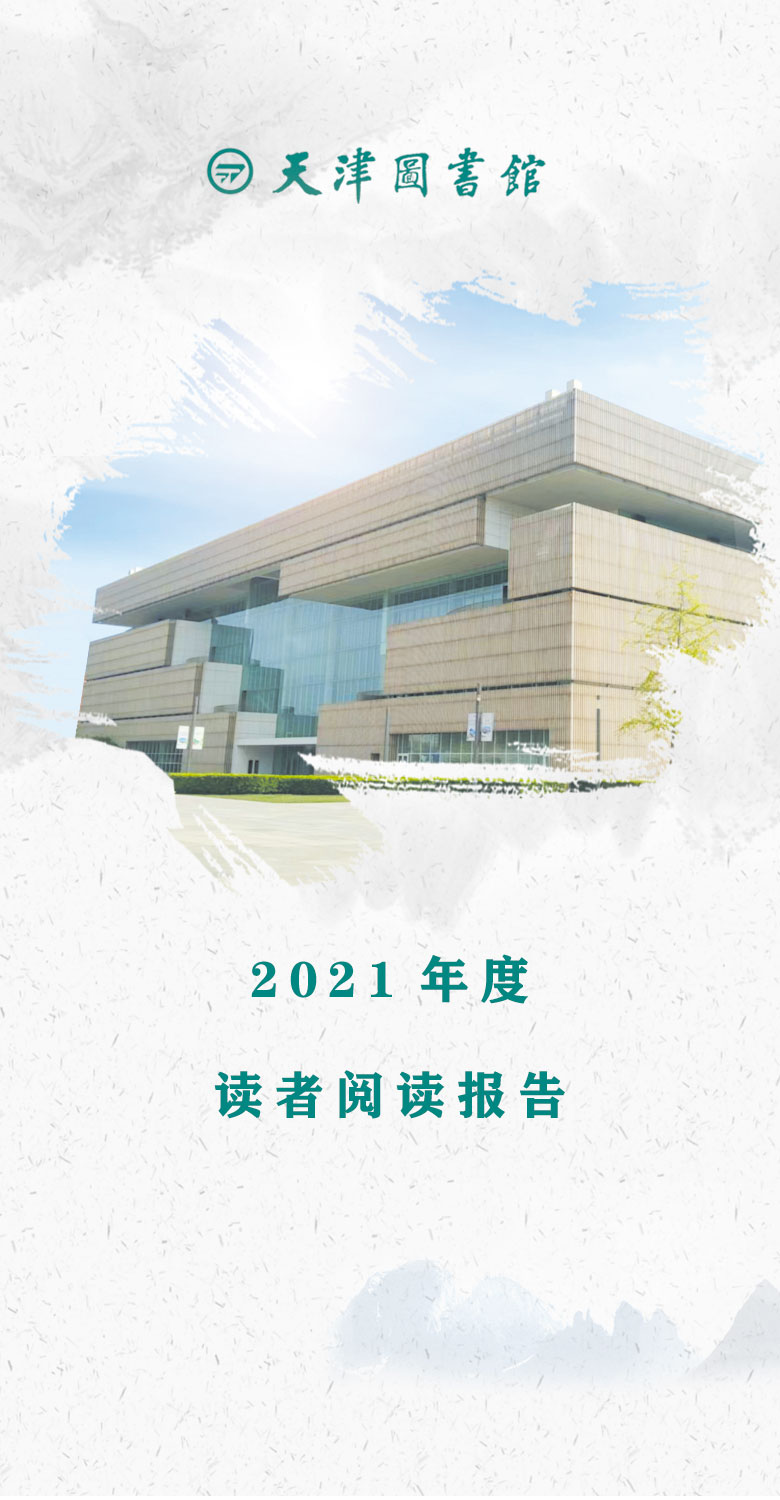
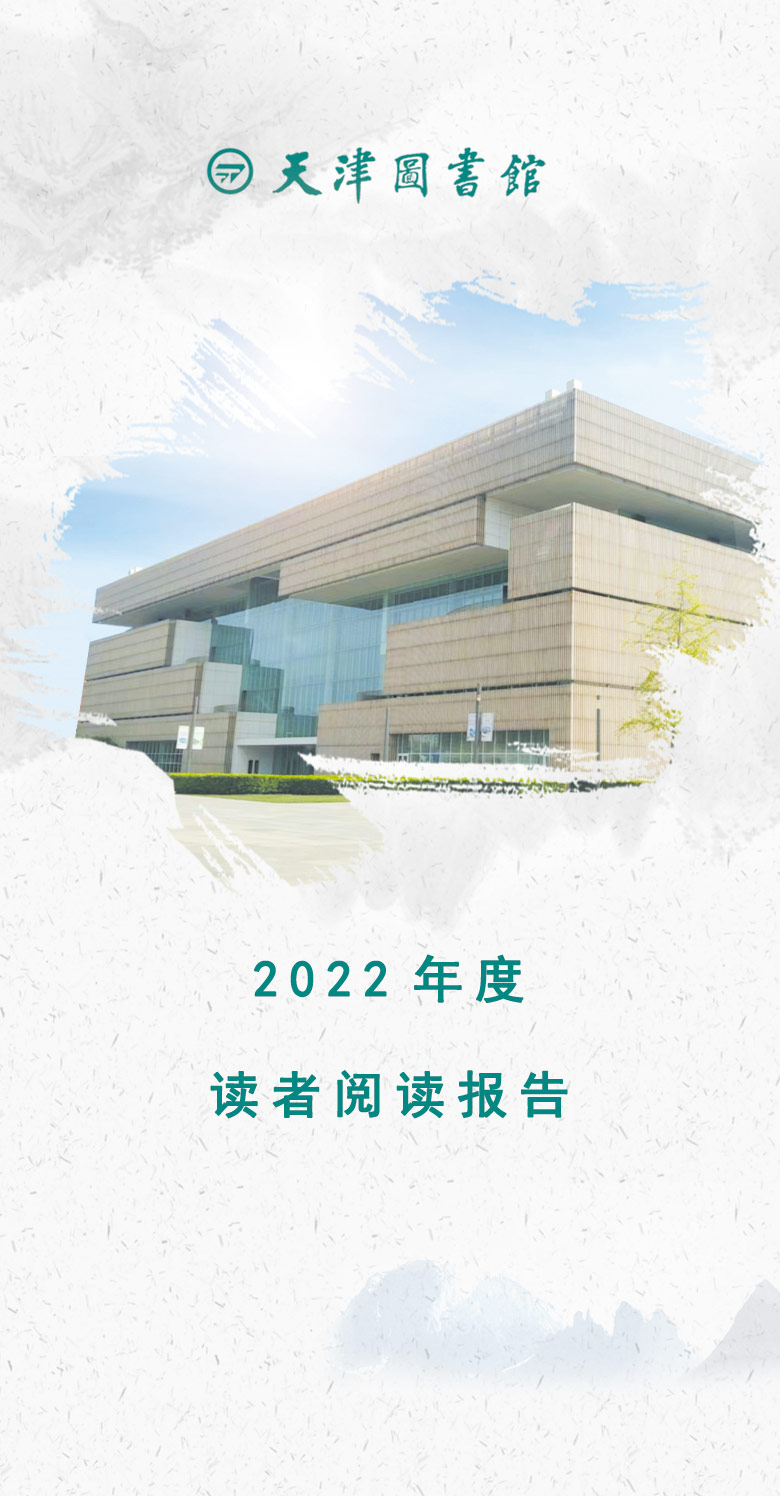
fix: 修改阅读统计，更换年份背景图

diff --git a/src/App.vue b/src/App.vue
@@ -279,24 +279,24 @@
             同时为全馆读者推送了:
             <p>
               <!-- <b>{{ readData.tipNotice }}</b> -->
-              <b>76584</b>
+              <b>61316</b>
               次图书到期提醒
             </p>
             <p>
               <!-- <b>{{ readData.p9a }}</b
               > -->
-              <b>195</b>
+              <b>137</b>
               篇推文
             </p>
             <p>
               <!-- <b>{{ readData.p9b }}</b> -->
-              <b>17</b>
+              <b>24</b>
               个微信阅读数据库
             </p>
             <p>
               <!-- <b>{{ readData.p9c }}</b> -->
-              <b>34</b>
-              次读者活动预告
+              <b>43</b>
+              次读者荐书反馈
             </p>
           </div>
         </div>
